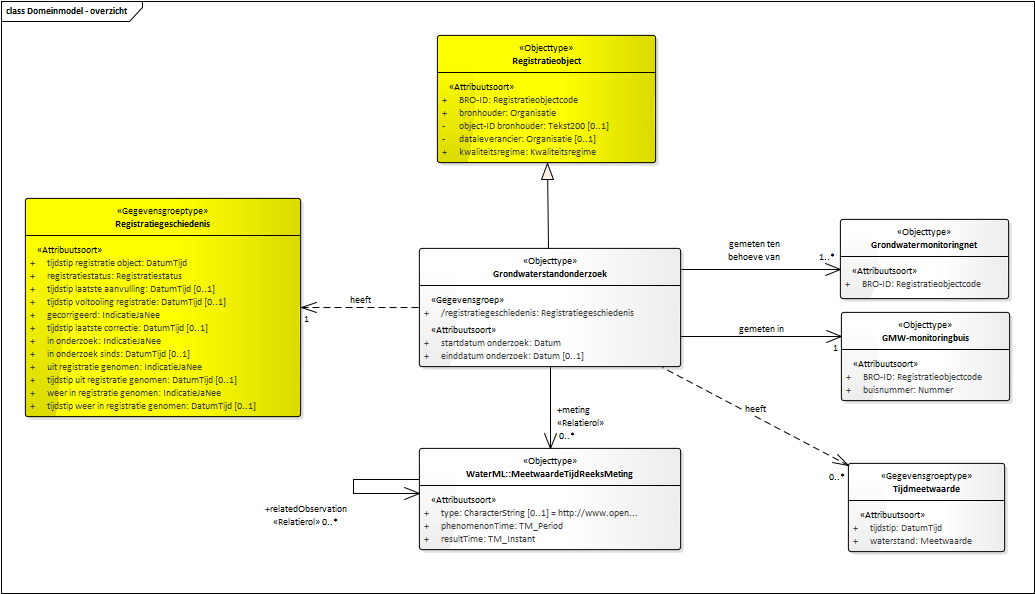
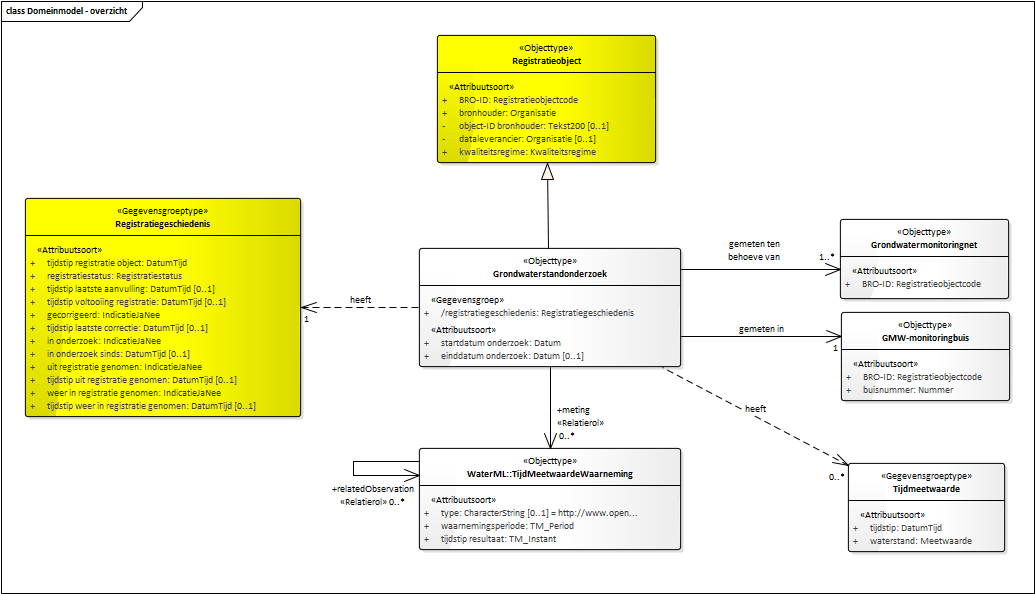
Conceptualmodel-GrondwaterstandonderzoekGLD-0.9-3-20191003-20191007-130357

Changed region(s): [[0.2473, 0.7879, 0.4019, 0.9091], [0.4019, 0.8788, 0.5565, 0.9394], [0.4329, 0.7879, 0.6184, 0.8182]]

diff --git a/data/GLD-cat.msword.html b/data/GLD-cat.msword.html
@@ -13,7 +13,7 @@
    <body>
       <p>Conceptual model/Grondwaterstandonderzoek (GLD)/20191003</p>
       <p>Imvertor: 1.55.2</p>
-      <p>Model release: Conceptualmodel-GrondwaterstandonderzoekGLD-0.9-3-20191003-20191007-115900</p>
+      <p>Model release: Conceptualmodel-GrondwaterstandonderzoekGLD-0.9-3-20191003-20191007-130357</p>
       <hr>
       <section id="global_class_Model_Registratieobject" level="3">
          <h1>Artikel 1     Registratieobject</h1>
@@ -77,7 +77,7 @@
                         <a class="link" href="#global_class_Model_GMWMonitoringbuis">GMW-monitoringbuis</a>
                         <br>Grondwaterstandonderzoek 
                         meting 0, 1 of meer 
-                        <a class="link" href="#global_class_Model_MeetwaardeTijdReeksMeting">MeetwaardeTijdReeksMeting</a>
+                        <a class="link" href="#global_class_Model_TijdMeetwaardeWaarneming">TijdMeetwaardeWaarneming</a>
                         <br>Grondwaterstandonderzoek 
                         registratiegeschiedenis 1 
                         <a class="link" href="#global_class_Model_Registratiegeschiedenis">Registratiegeschiedenis</a>
@@ -1142,8 +1142,8 @@
                </table>
                
             </section>
-         </section><a class="anchor" name="graph_EAID_665112EA_A39D_4ff0_BC95_CDDD3C5314EE"></a><a class="anchor" name="global_class_Model_MeetwaardeTijdReeksMeting"></a><section id="global_class_Model_MeetwaardeTijdReeksMeting" level="4">
-            <h2>   MeetwaardeTijdReeksMeting</h2>
+         </section><a class="anchor" name="graph_EAID_665112EA_A39D_4ff0_BC95_CDDD3C5314EE"></a><a class="anchor" name="global_class_Model_TijdMeetwaardeWaarneming"></a><section id="global_class_Model_TijdMeetwaardeWaarneming" level="4">
+            <h2>   TijdMeetwaardeWaarneming</h2>
             <table width="100%">
                <colgroup width="30%"></colgroup>
                <colgroup width="70%"></colgroup>
@@ -1153,17 +1153,25 @@
                      <td>Entiteit</td>
                   </tr>
                   <tr>
+                     <th>Definitie</th>
+                     <td>
+                        
+                        <p xmlns="http://www.w3.org/1999/xhtml" xmlns:html="http://www.w3.org/1999/xhtml" xmlns:imvert="http://www.imvertor.org/schema/system">TODO</p>
+                        
+                     </td>
+                  </tr>
+                  <tr>
                      <th>Relaties met andere entiteiten</th>
-                     <td>MeetwaardeTijdReeksMeting 
+                     <td>TijdMeetwaardeWaarneming 
                         relatedObservation 0, 1 of meer 
-                        <a class="link" href="#global_class_Model_MeetwaardeTijdReeksMeting">MeetwaardeTijdReeksMeting</a>
+                        <a class="link" href="#global_class_Model_TijdMeetwaardeWaarneming">TijdMeetwaardeWaarneming</a>
                         <br>
                         <a class="link" href="#global_class_Model_Grondwaterstandonderzoek">Grondwaterstandonderzoek</a>
                         
-                        meting 0, 1 of meer MeetwaardeTijdReeksMeting<br></td>
+                        meting 0, 1 of meer TijdMeetwaardeWaarneming<br></td>
                   </tr>
                </tbody>
-            </table><a class="anchor" name="detail_attribute_Model_MeetwaardeTijdReeksMeting_type"></a><section id="detail_attribute_Model_MeetwaardeTijdReeksMeting_type" level="5">
+            </table><a class="anchor" name="detail_attribute_Model_TijdMeetwaardeWaarneming_type"></a><section id="detail_attribute_Model_TijdMeetwaardeWaarneming_type" level="5">
                <h3>  type</h3>
                
                <table width="100%">
@@ -1172,7 +1180,15 @@
                   <tbody>
                      <tr>
                         <th>Type gegeven</th>
-                        <td>Attribuut van MeetwaardeTijdReeksMeting</td>
+                        <td>Attribuut van TijdMeetwaardeWaarneming</td>
+                     </tr>
+                     <tr>
+                        <th>Definitie</th>
+                        <td>
+                           
+                           <p xmlns="http://www.w3.org/1999/xhtml" xmlns:html="http://www.w3.org/1999/xhtml" xmlns:imvert="http://www.imvertor.org/schema/system">TODO</p>
+                           
+                        </td>
                      </tr>
                      <tr>
                         <th>Juridische status</th>
@@ -1208,8 +1224,8 @@
                   </tbody>
                </table>
                
-            </section><a class="anchor" name="detail_attribute_Model_MeetwaardeTijdReeksMeting_phenomenonTime"></a><section id="detail_attribute_Model_MeetwaardeTijdReeksMeting_phenomenonTime" level="5">
-               <h3>  phenomenonTime</h3>
+            </section><a class="anchor" name="detail_attribute_Model_TijdMeetwaardeWaarneming_waarnemingsperiode"></a><section id="detail_attribute_Model_TijdMeetwaardeWaarneming_waarnemingsperiode" level="5">
+               <h3>  waarnemingsperiode</h3>
                
                <table width="100%">
                   <colgroup width="30%"></colgroup>
@@ -1217,7 +1233,7 @@
                   <tbody>
                      <tr>
                         <th>Type gegeven</th>
-                        <td>Attribuut van MeetwaardeTijdReeksMeting</td>
+                        <td>Attribuut van TijdMeetwaardeWaarneming</td>
                      </tr>
                      <tr>
                         <th>Definitie</th>
@@ -1261,8 +1277,8 @@
                   </tbody>
                </table>
                
-            </section><a class="anchor" name="detail_attribute_Model_MeetwaardeTijdReeksMeting_resultTime"></a><section id="detail_attribute_Model_MeetwaardeTijdReeksMeting_resultTime" level="5">
-               <h3>  resultTime</h3>
+            </section><a class="anchor" name="detail_attribute_Model_TijdMeetwaardeWaarneming_tijdstipResultaat"></a><section id="detail_attribute_Model_TijdMeetwaardeWaarneming_tijdstipResultaat" level="5">
+               <h3>  tijdstip resultaat</h3>
                
                <table width="100%">
                   <colgroup width="30%"></colgroup>
@@ -1270,7 +1286,7 @@
                   <tbody>
                      <tr>
                         <th>Type gegeven</th>
-                        <td>Attribuut van MeetwaardeTijdReeksMeting</td>
+                        <td>Attribuut van TijdMeetwaardeWaarneming</td>
                      </tr>
                      <tr>
                         <th>Definitie</th>
@@ -1403,7 +1419,11 @@
                <tbody>
                   <tr>
                      <td>Definitie</td>
-                     <td></td>
+                     <td>
+                        
+                        <p xmlns="http://www.w3.org/1999/xhtml" xmlns:html="http://www.w3.org/1999/xhtml" xmlns:imvert="http://www.imvertor.org/schema/system">TODO</p>
+                        
+                     </td>
                   </tr>
                </tbody>
             </table>
@@ -1599,15 +1619,19 @@
                </tbody>
             </table>
             
-         </section><a class="anchor" name="graph_EAID_7103622C_FD3F_47c3_B8FD_D7C5DF0547B0"></a><a class="anchor" name="detail_class_Model_StatusCode"></a><section id="detail_class_Model_StatusCode" level="4">
-            <h2>  StatusCode</h2>
+         </section><a class="anchor" name="graph_EAID_7103622C_FD3F_47c3_B8FD_D7C5DF0547B0"></a><a class="anchor" name="detail_class_Model_ValidatieStatus"></a><section id="detail_class_Model_ValidatieStatus" level="4">
+            <h2>  ValidatieStatus</h2>
             
             <table width="100%" class="list">
                <colgroup width="20%"></colgroup>
                <tbody>
                   <tr>
                      <td>Definitie</td>
-                     <td></td>
+                     <td>
+                        
+                        <p xmlns="http://www.w3.org/1999/xhtml" xmlns:html="http://www.w3.org/1999/xhtml" xmlns:imvert="http://www.imvertor.org/schema/system">TODO</p>
+                        
+                     </td>
                   </tr>
                </tbody>
             </table>
@@ -1654,7 +1678,11 @@
                <tbody>
                   <tr>
                      <td>Definitie</td>
-                     <td></td>
+                     <td>
+                        
+                        <p xmlns="http://www.w3.org/1999/xhtml" xmlns:html="http://www.w3.org/1999/xhtml" xmlns:imvert="http://www.imvertor.org/schema/system">TODO</p>
+                        
+                     </td>
                   </tr>
                </tbody>
             </table>
@@ -1753,7 +1781,11 @@
                <tbody>
                   <tr>
                      <td>Definitie</td>
-                     <td></td>
+                     <td>
+                        
+                        <p xmlns="http://www.w3.org/1999/xhtml" xmlns:html="http://www.w3.org/1999/xhtml" xmlns:imvert="http://www.imvertor.org/schema/system">TODO</p>
+                        
+                     </td>
                   </tr>
                </tbody>
             </table>
@@ -1877,15 +1909,19 @@
                </tbody>
             </table>
             
-         </section><a class="anchor" name="graph_EAID_8828060E_83FC_49d1_A60B_D3F7FA560565"></a><a class="anchor" name="detail_class_Model_TypeMeetreeks"></a><section id="detail_class_Model_TypeMeetreeks" level="4">
-            <h2>  TypeMeetreeks</h2>
+         </section><a class="anchor" name="graph_EAID_8828060E_83FC_49d1_A60B_D3F7FA560565"></a><a class="anchor" name="detail_class_Model_Meetwaardereekstype"></a><section id="detail_class_Model_Meetwaardereekstype" level="4">
+            <h2>  Meetwaardereekstype</h2>
             
             <table width="100%" class="list">
                <colgroup width="20%"></colgroup>
                <tbody>
                   <tr>
                      <td>Definitie</td>
-                     <td></td>
+                     <td>
+                        
+                        <p xmlns="http://www.w3.org/1999/xhtml" xmlns:html="http://www.w3.org/1999/xhtml" xmlns:imvert="http://www.imvertor.org/schema/system">TODO</p>
+                        
+                     </td>
                   </tr>
                </tbody>
             </table>
